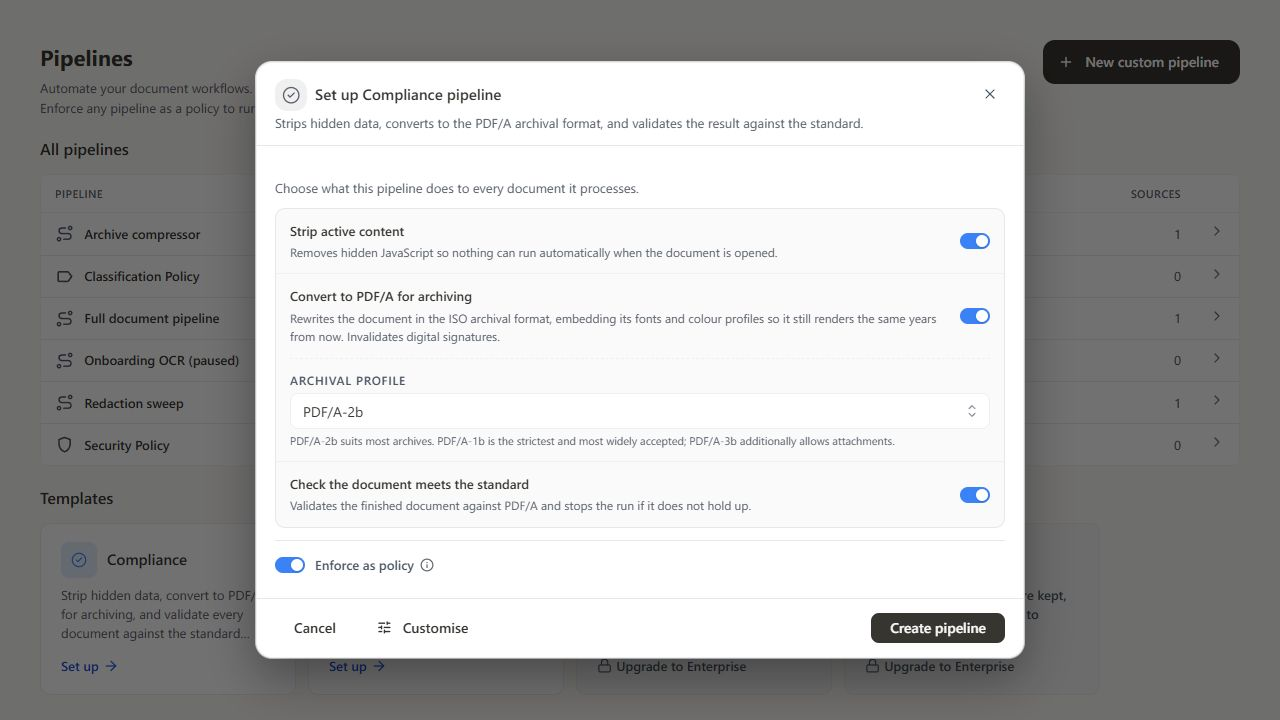
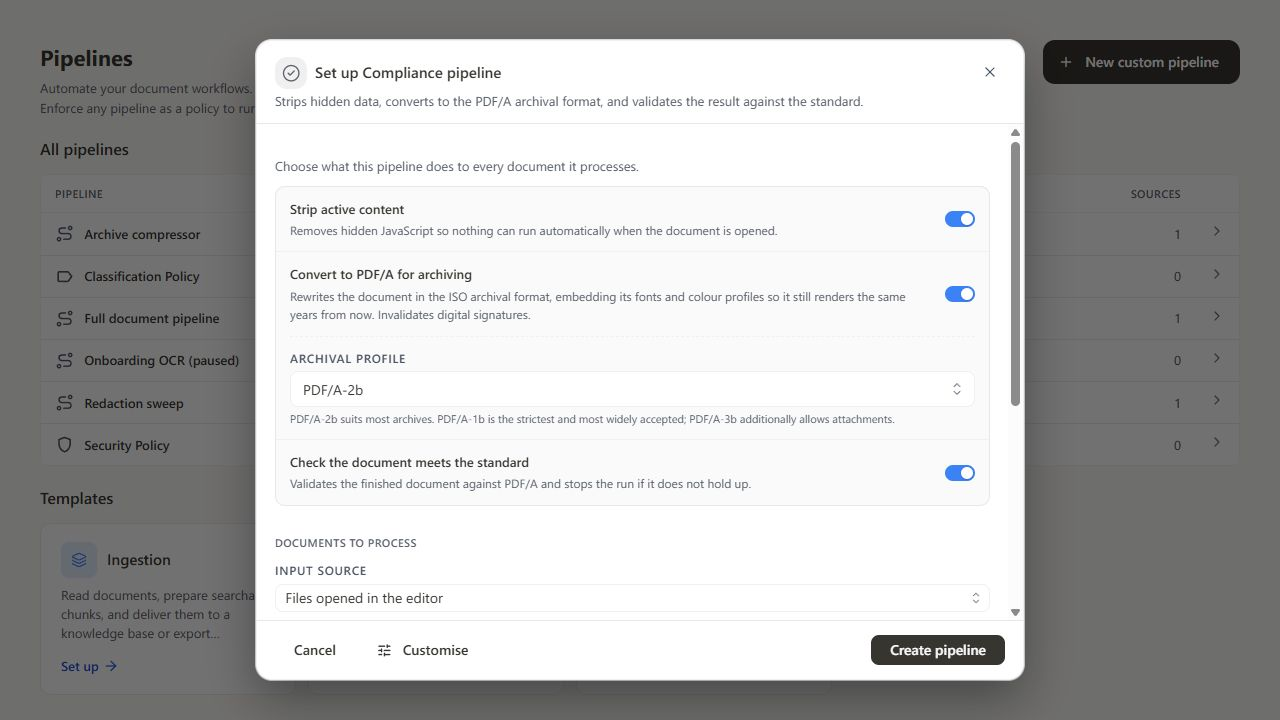
Document guided ingestion and refresh the template screenshots

diff --git a/scripts/processor-docs/DocumentationPipelines.stories.tsx b/scripts/processor-docs/DocumentationPipelines.stories.tsx
@@ -1,0 +1,28 @@
+import type { Meta, StoryObj } from '@storybook/react-vite';
+import { http, HttpResponse } from 'msw';
+import { Pipelines } from '@portal/views/Pipelines';
+import { POLICY_CATEGORIES } from '@app/policies/catalog';
+import { AppConfigProvider } from '@app/contexts/AppConfigContext';
+
+// Documentation release scope excludes the unfinished Retention template.
+const retention = POLICY_CATEGORIES.findIndex((entry) => entry.id === 'retention');
+if (retention !== -1) POLICY_CATEGORIES.splice(retention, 1);
+
+export default {
+  title: 'Documentation/Pipelines',
+  component: Pipelines,
+  parameters: {
+    layout: 'padded',
+    msw: { handlers: [
+      http.get('*/api/v1/docparse/capabilities', () => HttpResponse.json({
+        enabled: true, mode: 'auto', advancedInstalled: false,
+        engineReachable: true, indexingConfigured: true, doclingVersion: null,
+      })),
+    ] },
+  },
+  decorators: [(Story) => <AppConfigProvider
+    initialConfig={{ enableLogin: true, isAdmin: true, aiEngineEnabled: true, aiFeatures: { classify: true } }}
+    bootstrapMode="non-blocking" autoFetch={false}
+  ><Story /></AppConfigProvider>],
+} satisfies Meta<typeof Pipelines>;
+export const Gallery: StoryObj<typeof Pipelines> = {};

diff --git a/docs/Processor/Ingestion.md b/docs/Processor/Ingestion.md
@@ -1,0 +1,60 @@
+---
+sidebar_position: 5.5
+title: Ingestion
+description: Set up OCR and searchable document chunks with a knowledge base, connected RAG database, or corpus export.
+---
+
+# Ingestion
+
+The Ingestion template prepares documents for knowledge search. Open **Processor → Pipelines**, find **Ingestion** under **Templates**, and select **Set up**.
+
+The default processing chain runs OCR, then prepares searchable chunks. It keeps the text layer available for extraction rather than flattening pages into images.
+
+## Configure processing
+
+1. Review **Make text searchable**. The preset uses English OCR; use **Customise** to change the OCR step's languages when needed.
+2. Leave **Prepare for knowledge search** enabled to prepare chunks. Turn it off if you only need OCR.
+3. Under **Documents to process**, choose **Files opened in the editor** or a saved input source. Use **Connect input source** if the location is not yet configured.
+4. Choose when the input runs. Editor input runs on upload or export; server inputs offer the triggers supported by their source type.
+5. Choose the output type and destination described below.
+6. Resolve any readiness messages, then select **Create pipeline**. Use **Customise** when you need the full pipeline builder.
+
+![Ingestion setup with processing and input settings](/img/processor/ingestion-setup.png)
+
+## Choose the output
+
+![Ingestion output menu with knowledge base, connected database, and export choices](/img/processor/ingestion-output.png)
+
+| Output type | Result | Requirements |
+|---|---|---|
+| **Stirling knowledge base** | Indexes searchable chunks in Stirling and returns the processed PDF to the selected destination. | Reachable AI engine and a configured embedding provider. |
+| **Connected RAG database** | Sends chunks to the selected database, which generates embeddings; returns an indexing receipt. | Reachable AI engine and an enabled RAG database destination with its connection and collection configured. |
+| **Export chunks without a database** | Saves the processed PDF and JSONL chunks to the selected destination. | Reachable AI engine; no database or embedding provider required. |
+
+For a server input, select an enabled output destination. For ordinary Editor processing, results can return to the editor workspace. **Keep originals and send to a destination** instead processes a copy in the background and leaves the editor files unchanged. A database delivery or chunk export requires its corresponding destination.
+
+A RAG database source is an output destination, not a document input. Create or select it through the destination controls, then choose its saved connection and collection. See [Sources](./Sources.md) and [Integrations](./Integrations.md).
+
+When customizing database delivery, keep RAG preparation as the final step and export only JSONL chunks, with the original PDF and Markdown excluded. The guided form sets these options when you choose a connected database. Chunk and Markdown exports cannot be returned directly to the editor; choose a file or database destination.
+
+## Adjust chunk settings
+
+Expand **Chunk settings** to adjust how extracted content is divided for retrieval:
+
+| Setting | Default | Accepted values |
+|---|---|---|
+| Chunk size | `512` | Integer from `64` to `32768`. |
+| Overlap | `64` | Integer from `0` to `4096`, smaller than chunk size. |
+| Parsing mode | Automatic | Automatic or Basic. |
+
+Start with the defaults, then check retrieval against your documents before changing them. Changing chunk settings does not by itself rebuild documents already stored in a knowledge base.
+
+## Check readiness and originals
+
+The form checks the input, schedule, destination, chunk settings, and AI capabilities before saving. **Open AI settings** takes you to the relevant configuration; **Check again** refreshes readiness after a change. Chunk preparation still needs the AI engine when indexing is disabled. To run without that engine, turn off **Prepare for knowledge search** and use OCR alone.
+
+For folder, S3, and network inputs, review the source's processing mode. **Delete the file** removes originals after successful delivery; tracked mode retains originals and processes changed versions. Choose a separate output location when originals must remain unchanged.
+
+Folder-processing setup uses the selected folder as its input. When delivering from a processing folder to a RAG database, originals are retained. See [Processing folders](./Processing-Folders.md).
+
+Test a document, inspect the resulting PDF or export, and verify a search in the selected knowledge base before enabling ongoing ingestion. Use [Review](./Review.md) to investigate failures.

diff --git a/scripts/processor-docs/README.md b/scripts/processor-docs/README.md
@@ -5,6 +5,12 @@ The September 2026 refresh was checked against Stirling-PDF `origin/main` at
 Processor purchase dialogs. The docs branch was rebased onto docs main
 `4a1605993466522b89f899d00bff2e499a848d18`.
 
+The Ingestion follow-up targets [application PR #7991](https://github.com/Stirling-Tools/Stirling-PDF/pull/7991)
+at `9d4e360151091e9d5600e1fee0ab1cc363abe4ce`. Its release-facing documentation
+and screenshots include guided ingestion as available. Retention is excluded
+from the screenshot catalogue at the documentation owner's request. This is an
+intentional release-preview scope, not a claim that the PR was already merged.
+
 ## Screenshots
 
 The PNGs under `static/img/processor` are browser captures of the current
@@ -14,7 +20,7 @@ Captions describe the screen directly. No image generation or DOM restyling was
 used.
 
 Run the application frontend's dependency and generated-icon setup, then launch
-Storybook. The two stories in this directory can be copied beside the app's
+Storybook. The stories in this directory can be copied beside the app's
 `frontend/editor/src/portal/views/*.stories.tsx` for capture. They are capture
 harnesses, not changes to the application:
 
@@ -23,13 +29,18 @@ harnesses, not changes to the application:
 - `DocumentationDocuments.stories.tsx` supplies document activity shaped like
   `PortalDocumentsService` output, instead of the richer legacy gallery fixture.
   It shows processed/error outcomes without invented extraction or approval data.
+- `DocumentationPipelines.stories.tsx` uses the Ingestion PR's real setup
+  components, removes Retention from the capture catalogue, and supplies ready
+  AI capability responses. Use it for the gallery and template modal captures.
 
 | Image | Story and state |
 |---|---|
 | `sources.png` | `portal-views-sources--default` |
 | `folder-source.png` | Sources → Connect source → Folder; Invoice inbox, `/data/processor/inbox`, Advanced expanded, retain and process only changes |
-| `pipelines.png` | `portal-views-pipelines--default`; full page |
-| `compliance-template.png` | Pipelines → Compliance → Set up |
+| `pipelines.png` | `documentation-pipelines--gallery`; full page |
+| `compliance-template.png` | Documentation gallery → Compliance → Set up |
+| `ingestion-setup.png` | Documentation gallery → Ingestion → Set up; configured Editor input and built-in knowledge base |
+| `ingestion-output.png` | Same Ingestion form, scrolled to Output with the output-type menu expanded |
 | `pipeline-builder.png` | `documentation-pipelinebuilder--builder` |
 | `documents.png` | `documentation-documents--activity` |
 | `review.png` | `portal-views-review--default` |
@@ -59,12 +70,13 @@ stirling/software/proprietary` unless noted otherwise.
 
 The UI contains some forward-looking labels. Verify an executable backend path
 before documenting them as functionality: notably document content access,
-extractions/approvals, Ingestion/Retention templates, and ConsignO operations.
+extractions/approvals and ConsignO operations. The Ingestion guidance follows
+the PR listed above; Retention remains outside the documented template catalogue.
 
 ## Validation
 
 Run `npm run build` and `git diff --check`. Inspect the built `/Processor/`
-category, its 12 child pages, image assets, local links, and heading fragments.
+category, its 13 child pages, image assets, local links, and heading fragments.
 Also review the related onboarding, usage, folder-scanning, and AI pages when
 their implementation changes. This refresh is a source/UI audit; it does not
 claim an end-to-end deployment test of every integration or paid entitlement.

diff --git a/docs/Configuration/Automation/Pipeline.md b/docs/Configuration/Automation/Pipeline.md
@@ -293,9 +293,11 @@ For the canonical list of operations and the full parameter schema for each, see
 
 See [API Documentation](../../API.md) for authentication and general API usage.
 
-Pipelines can only call endpoints under `/api/v1/general/...`, `/api/v1/misc/...`, `/api/v1/security/...`, `/api/v1/convert/...`, `/api/v1/filter/...`, `/api/v1/integration/...`, and `/api/v1/ai/tools/...`. Anything outside those namespaces is rejected with a `SecurityException` before dispatch - this includes `/api/v1/info/...`, `/api/v1/auth/...`, `/api/v1/admin/...`, and `/api/v1/pipeline/handleData` itself (pipelines cannot recursively call themselves). The same allowlist applies to Processor pipeline steps.
+Pipelines can only call endpoints under `/api/v1/general/...`, `/api/v1/misc/...`, `/api/v1/security/...`, `/api/v1/convert/...`, `/api/v1/filter/...`, `/api/v1/integration/...`, `/api/v1/docparse/...`, and `/api/v1/ai/tools/...`. Anything outside those namespaces is rejected with a `SecurityException` before dispatch - this includes `/api/v1/info/...`, `/api/v1/auth/...`, `/api/v1/admin/...`, and `/api/v1/pipeline/handleData` itself (pipelines cannot recursively call themselves). The same allowlist applies to Processor pipeline steps.
 
 The `/api/v1/integration/...` namespace holds the third-party call-out steps - `external-api-call`, `purview-apply-label` and `purview-read-label`. Each of these takes the id of a stored connection rather than a host and credentials, so the connection has to exist before a pipeline can reference it. See [Integrations](../../Processor/Integrations.md) for setting those up.
+
+The `/api/v1/docparse/rag-ingest` operation prepares document chunks for knowledge search or export. For source, trigger, and database destination setup, use the Processor's guided [Ingestion](../../Processor/Ingestion.md) template.
 
 The `/api/v1/ai/tools/...` namespace holds the AI-backed tool endpoints, such as `math-auditor-agent` and `pdf-comment-agent`. A step that calls one works only when the AI engine is switched on and that capability's own switch is on: set `aiEngine.enabled` to `true` (it is `false` by default) and leave the matching `aiEngine.features.*` switch at its default of `true`. With either off the step gets `HTTP 503` with the body message `AI feature '<name>' is disabled`. See [AI Overview](../../AI/AI-Overview.md) for turning the engine on and [AI Tools](../../AI/AI-Tools.md) for the per-capability switches.
 

diff --git a/docs/Processor/Policies.md b/docs/Processor/Policies.md
@@ -1,7 +1,7 @@
 ---
 sidebar_position: 5
 title: Policy templates
-description: Use guided templates for Security, Classification, Compliance, and Routing.
+description: Use guided templates for Ingestion, Security, Classification, Compliance, and Routing.
 ---
 
 # Policy templates
@@ -12,10 +12,17 @@ Policies now live in **Processor → Pipelines**. Choose a template from **Templ
 
 1. Open **Pipelines** and choose a template that is available on your deployment.
 2. Enable the operations you need and configure their fields.
-3. Choose whether to **Enforce as policy**, if you have management permission.
-4. Select **Create pipeline**. Use **Customise** when you need the full input, trigger, step, and output builder.
+3. Choose the input, when it runs, and the output destination in the guided form.
+4. For an editor input, choose whether to **Enforce as policy**, if you have management permission.
+5. Resolve setup messages, then select **Create pipeline**. Use **Customise** when you need the full input, trigger, step, and output builder.
 
 Once set up, the workflow appears in the list and its unused template card is no longer the entry point. Opening an existing row edits that workflow.
+
+## Ingestion
+
+Select **Set up** on the Ingestion template to prepare documents for knowledge search. The guided form combines OCR and searchable chunk preparation with input, trigger, output, and destination settings.
+
+Choose the Stirling knowledge base, a connected RAG database, or a chunk export without a database. See [Ingestion](./Ingestion.md) for the setup walkthrough and requirements for each output.
 
 ## Security
 
@@ -42,10 +49,6 @@ PDF/A conversion changes the document and invalidates existing digital signature
 ## Routing
 
 Routing chooses a destination using the document's properties or classification. Rules run in order, with a fallback destination for unmatched documents. Use [Routing](./Routing.md) for configuration and an example without AI.
-
-## Unavailable templates
-
-The catalogue also contains Ingestion and Retention entries. A disabled or upgrade-labelled card does not mean that all operations described by that card are implemented or enabled in your build. Use the available steps and controls; do not design a production workflow around a disabled template.
 
 ## What enforcement means
 

diff --git a/docs/Processor/Sources.md b/docs/Processor/Sources.md
@@ -7,7 +7,7 @@ id: Sources
 
 # Sources
 
-A source is a saved location that a pipeline reads from. Folder and S3 sources can also receive output. Manage them at **Processor → Sources** (`/processor/sources`).
+A source is a saved location used by a pipeline. Folder and S3 sources can supply input and receive output; RAG database sources are output-only destinations for prepared chunks. Manage them at **Processor → Sources** (`/processor/sources`).
 
 ![Sources list with status, document counts, and pipeline references](/img/processor/sources.png)
 
@@ -24,6 +24,7 @@ Select **Connect source**, choose a type, enter its name and settings, then sele
 | **FTP** | A directory on FTP or FTPS | No |
 | **Network drive** | An SMB share | No |
 | **Webhook** | Documents delivered by signed HTTP POST | No |
+| **RAG database** | No; output-only | Prepared document chunks from an Ingestion workflow |
 
 Connectors marked **Coming soon** are not available for source ingestion. A vendor integration that can send files out does not necessarily provide an input connector for that vendor.
 
@@ -72,6 +73,10 @@ Send a raw file body to `POST /api/v1/webhooks/<webhookId>` with:
 | `Content-Length` | Size of the raw body in bytes; required |
 
 An accepted delivery returns **202**. That acknowledges receipt, not completion of the pipeline. A missing length returns **411**, an oversized declared body **413**, and an invalid signature **401**. Check [Documents](./Documents.md) and [Review](./Review.md) for what happened next.
+
+## RAG database destinations
+
+Select a saved database connection and configure its collection, plus any namespace or text-field options required by that provider. Use this source as the destination for **Connected RAG database** in [Ingestion](./Ingestion.md). It accepts prepared chunks rather than acting as a watched folder or providing document input.
 
 ## Status and removal
 

diff --git a/docs/Processor/Pipelines.md b/docs/Processor/Pipelines.md
@@ -13,7 +13,7 @@ Open **Processor → Pipelines** (`/processor/pipelines`). This list includes cu
 
 ## Create a workflow
 
-Choose **New custom pipeline**, or choose a [template](./Policies.md) for a guided setup. The full builder lets you select an input, add and configure operations in order, and choose the output.
+Choose **New custom pipeline**, or select **Set up** on a [template](./Policies.md) for a guided setup. [Ingestion](./Ingestion.md) combines OCR and knowledge-search preparation with input and output selection. The full builder lets you select an input, add and configure operations in order, and choose the output.
 
 ![Pipeline builder with input, operation chain, and settings](/img/processor/pipeline-builder.png)
 
@@ -65,7 +65,7 @@ Pausing stops future automatic runs; it is not a rollback of files already proce
 
 ## Destinations and routing
 
-Folder and S3 are writable destination types. They avoid overwriting an existing output by choosing a non-conflicting filename. For Editor input, no storage destination is required: results return to the workspace.
+Folder and S3 receive processed files and avoid overwriting an existing output by choosing a non-conflicting filename. A RAG database destination receives prepared chunks from an [Ingestion](./Ingestion.md) workflow. For ordinary Editor processing, results can return to the workspace; database delivery and chunk exports need their corresponding destination.
 
 With routing enabled, the default destination becomes the fallback. The first matching routing rule chooses a destination for that document. Configure it under [Routing](./Routing.md).
 

diff --git a/docs/Processor/Integrations.md b/docs/Processor/Integrations.md
@@ -20,6 +20,8 @@ Open **Processor → Integrations** (`/processor/integrations`) to manage saved 
 
 The catalogue separates connected services, available connection types, and connectors that are not yet available. The **Works with** information helps distinguish a source connection from an outgoing operation. A saved credential record alone does not start a workflow.
 
+For a connected RAG database, configure the database connection, then create a RAG database destination with its collection and provider-specific options. Select that destination in [Ingestion](./Ingestion.md). The database generates embeddings for the delivered chunks; this is separate from the embedding provider used by Stirling's built-in knowledge base.
+
 ## Storage connections
 
 | Connection | Configure | Used by |
@@ -31,7 +33,7 @@ The catalogue separates connected services, available connection types, and conn
 
 Give credentials only the permissions required by the workflow. **Delete the file** source mode needs delete permission as well as read access. Output destinations need write access.
 
-S3 Object Lock requires a bucket configured to support it. If using the connection's advanced/API options, set `objectLockMode` (`GOVERNANCE` or `COMPLIANCE`) and `retentionDays` together. This is separate from the availability of a Retention template.
+S3 Object Lock requires a bucket configured to support it. If using the connection's advanced/API options, set `objectLockMode` (`GOVERNANCE` or `COMPLIANCE`) and `retentionDays` together.
 
 ## External API and vendor operations
 

diff --git a/docs/Processor/Processor.md b/docs/Processor/Processor.md
@@ -16,7 +16,8 @@ Open **Processor** from the app switcher, or go to `/processor` on your Stirling
 - **[Create your first pipeline](./Getting-Started.md):** connect two folders, process a test PDF, then enable unattended processing.
 - **[Sources](./Sources.md):** folders, S3, network shares, webhooks, and the built-in Editor source.
 - **[Pipelines](./Pipelines.md):** build, test, pause, and update a sequence of operations.
-- **[Policy templates](./Policies.md):** configure Security, Classification, Compliance, and Routing from guided templates.
+- **[Policy templates](./Policies.md):** configure Ingestion, Security, Classification, Compliance, and Routing from guided templates.
+- **[Ingestion](./Ingestion.md):** prepare searchable document chunks for a knowledge base or export.
 - **[Routing](./Routing.md):** send documents to different destinations using document properties or classification.
 
 ![Pipelines list and available templates](/img/processor/pipelines.png)

diff --git a/docs/Processor/Processing-Folders.md b/docs/Processor/Processing-Folders.md
@@ -17,6 +17,8 @@ A processing folder applies a saved processing setup to files placed in a chosen
 
 Opening setup from an existing folder skips the folder-selection stage. Merely selecting or creating a folder does not enable processing; the final action saves the setup.
 
+Choose **Ingestion** to run OCR and prepare the folder's documents for knowledge search. The setup offers the Stirling knowledge base, a connected RAG database, or chunk export. It checks the required AI capabilities and destination before saving. Database delivery retains the folder's originals; see [Ingestion](./Ingestion.md) for output choices and chunk settings.
+
 ## Change existing processing
 
 Open the folder's processing settings and review the saved operations before using **Save changes**. The form warns when a folder already has processing, because saving replaces its processing settings.

diff --git a/docs/Processor/Setup-and-Access.md b/docs/Processor/Setup-and-Access.md
@@ -63,6 +63,8 @@ Create credentials under [Integrations](./Integrations.md) before selecting an S
 
 Most PDF tools and property-based routing do not require AI. A server **Classify** step requires AI classification to be available. See [AI Overview](../AI/AI-Overview.md) before using classification-based workflows.
 
+[Ingestion](./Ingestion.md) uses the AI engine to prepare chunks. The Stirling knowledge base also needs an embedding provider; exporting chunks does not. A connected RAG database supplies its own embeddings. The guided form checks these requirements and links to AI settings when configuration is missing.
+
 ## Check the processing record
 
 The Documents page is available without an Enterprise license, but its feed needs processing events to be recorded. On self-hosted deployments, enable audit recording at a level that includes processing:
